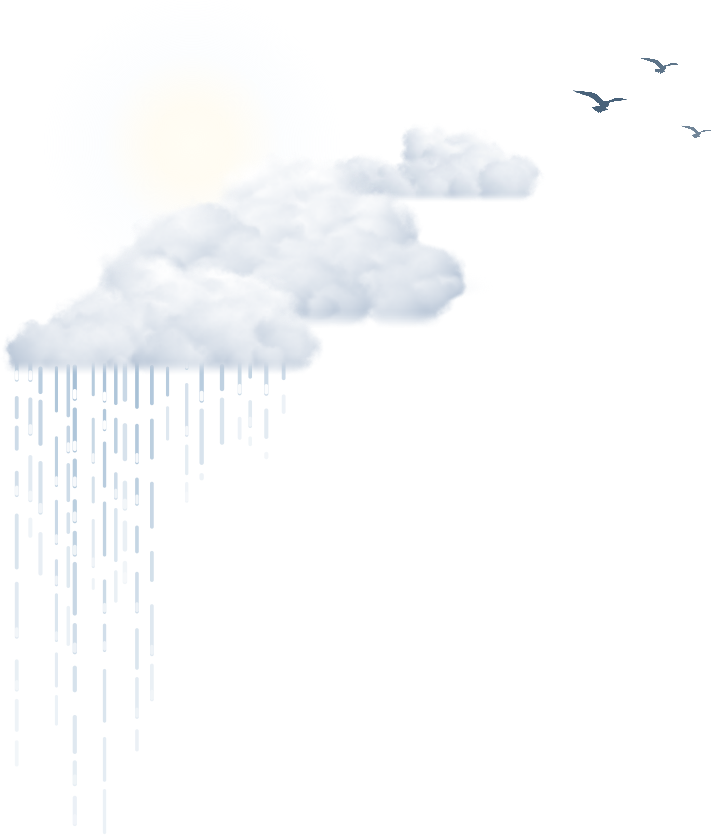
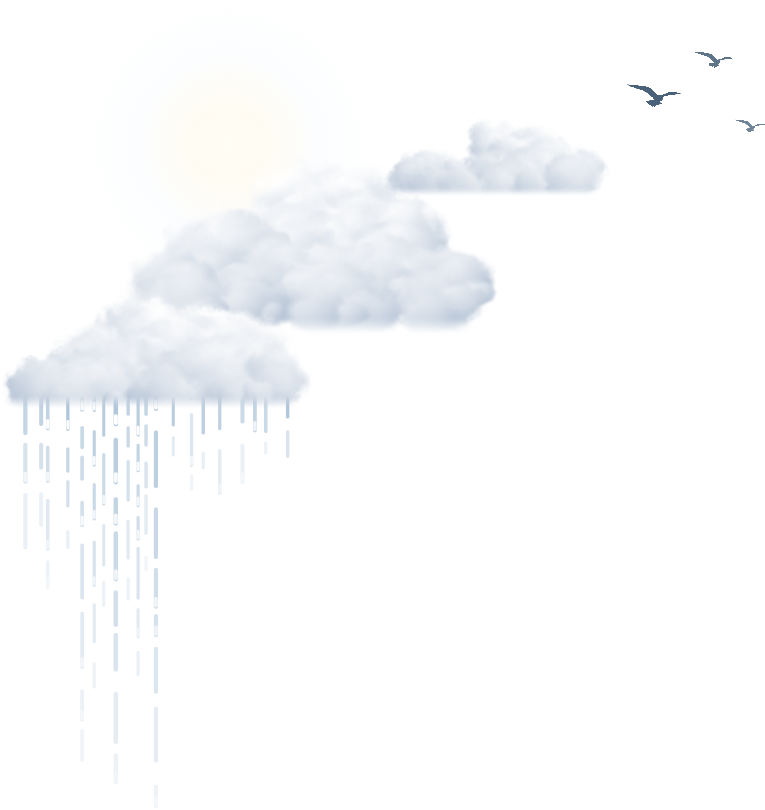
天空蓝主题窗口点缀：左上两朵大云拉开距离、整体往窗内收，主角压住标题开头几个字母，左下大云错开只交叠一角，雨帘随之下移；左上雨帘最左侧几根、右边框外雨帘靠窗一侧几根改短，最长的雨丝落在中间和外侧

diff --git a/dstools/qt/ornaments.py b/dstools/qt/ornaments.py
@@ -82,10 +82,10 @@ _SPRITES: dict[str, tuple[Sprite, ...]] = {
         # 一段雁阵；上边一串只铺到四百左右，不占满半个窗口，圆鼓的小积云和扁平的碎积云混排
         Sprite("sky_spray_right.png", 0, 0, 259, -31.5, 63),
         Sprite("sky_spray_down.png", 0, 0, -35.5, 250, 312),
-        # 左上主角：一朵最大的扁团状积云跨在拐角上往窗内收，右上方后面叠一片小些的积云，左下前方压一朵形状
-        # 不同的大积云，底下沿左边框外垂下一道雨帘（断续的雨丝垂直落下、带亮点、末端参差）；压住标题栏图标和标题
-        # 开头一点、不挡菜单，背后透出柔和日光，一缕薄雾横过拐角，几只海鸥飞过
-        Sprite("sky_cluster.png", 0, 0, 14.5, 55.5, 279),
+        # 左上主角：一朵最大的扁团状积云跨在拐角上往窗内收，右上方后面叠一片小些的积云，左下方错开一朵形状
+        # 不同的大积云（只交叠一角），底下沿左边框外垂下一道雨帘（断续的雨丝垂直落下、带亮点、末端参差）；
+        # 压住标题栏图标和标题开头几个字母、不挡菜单，背后透出柔和日光，一缕薄雾横过拐角，几只海鸥飞过
+        Sprite("sky_cluster.png", 0, 0, 23.5, 51, 270),
         # 右上呼应：风筝停在拐角外框线上方，风筝线沿上边往左淡去，几只鸟绕着飞；框外上方一串疏密不一的云，
         # 菜单栏右端跨在右边框上的一大一小两朵与框外连成一片，右边框上再往下散落几朵、压住边框，
         # 其中大些的一朵底下也垂一道雨帘；都不挡标题栏按钮
